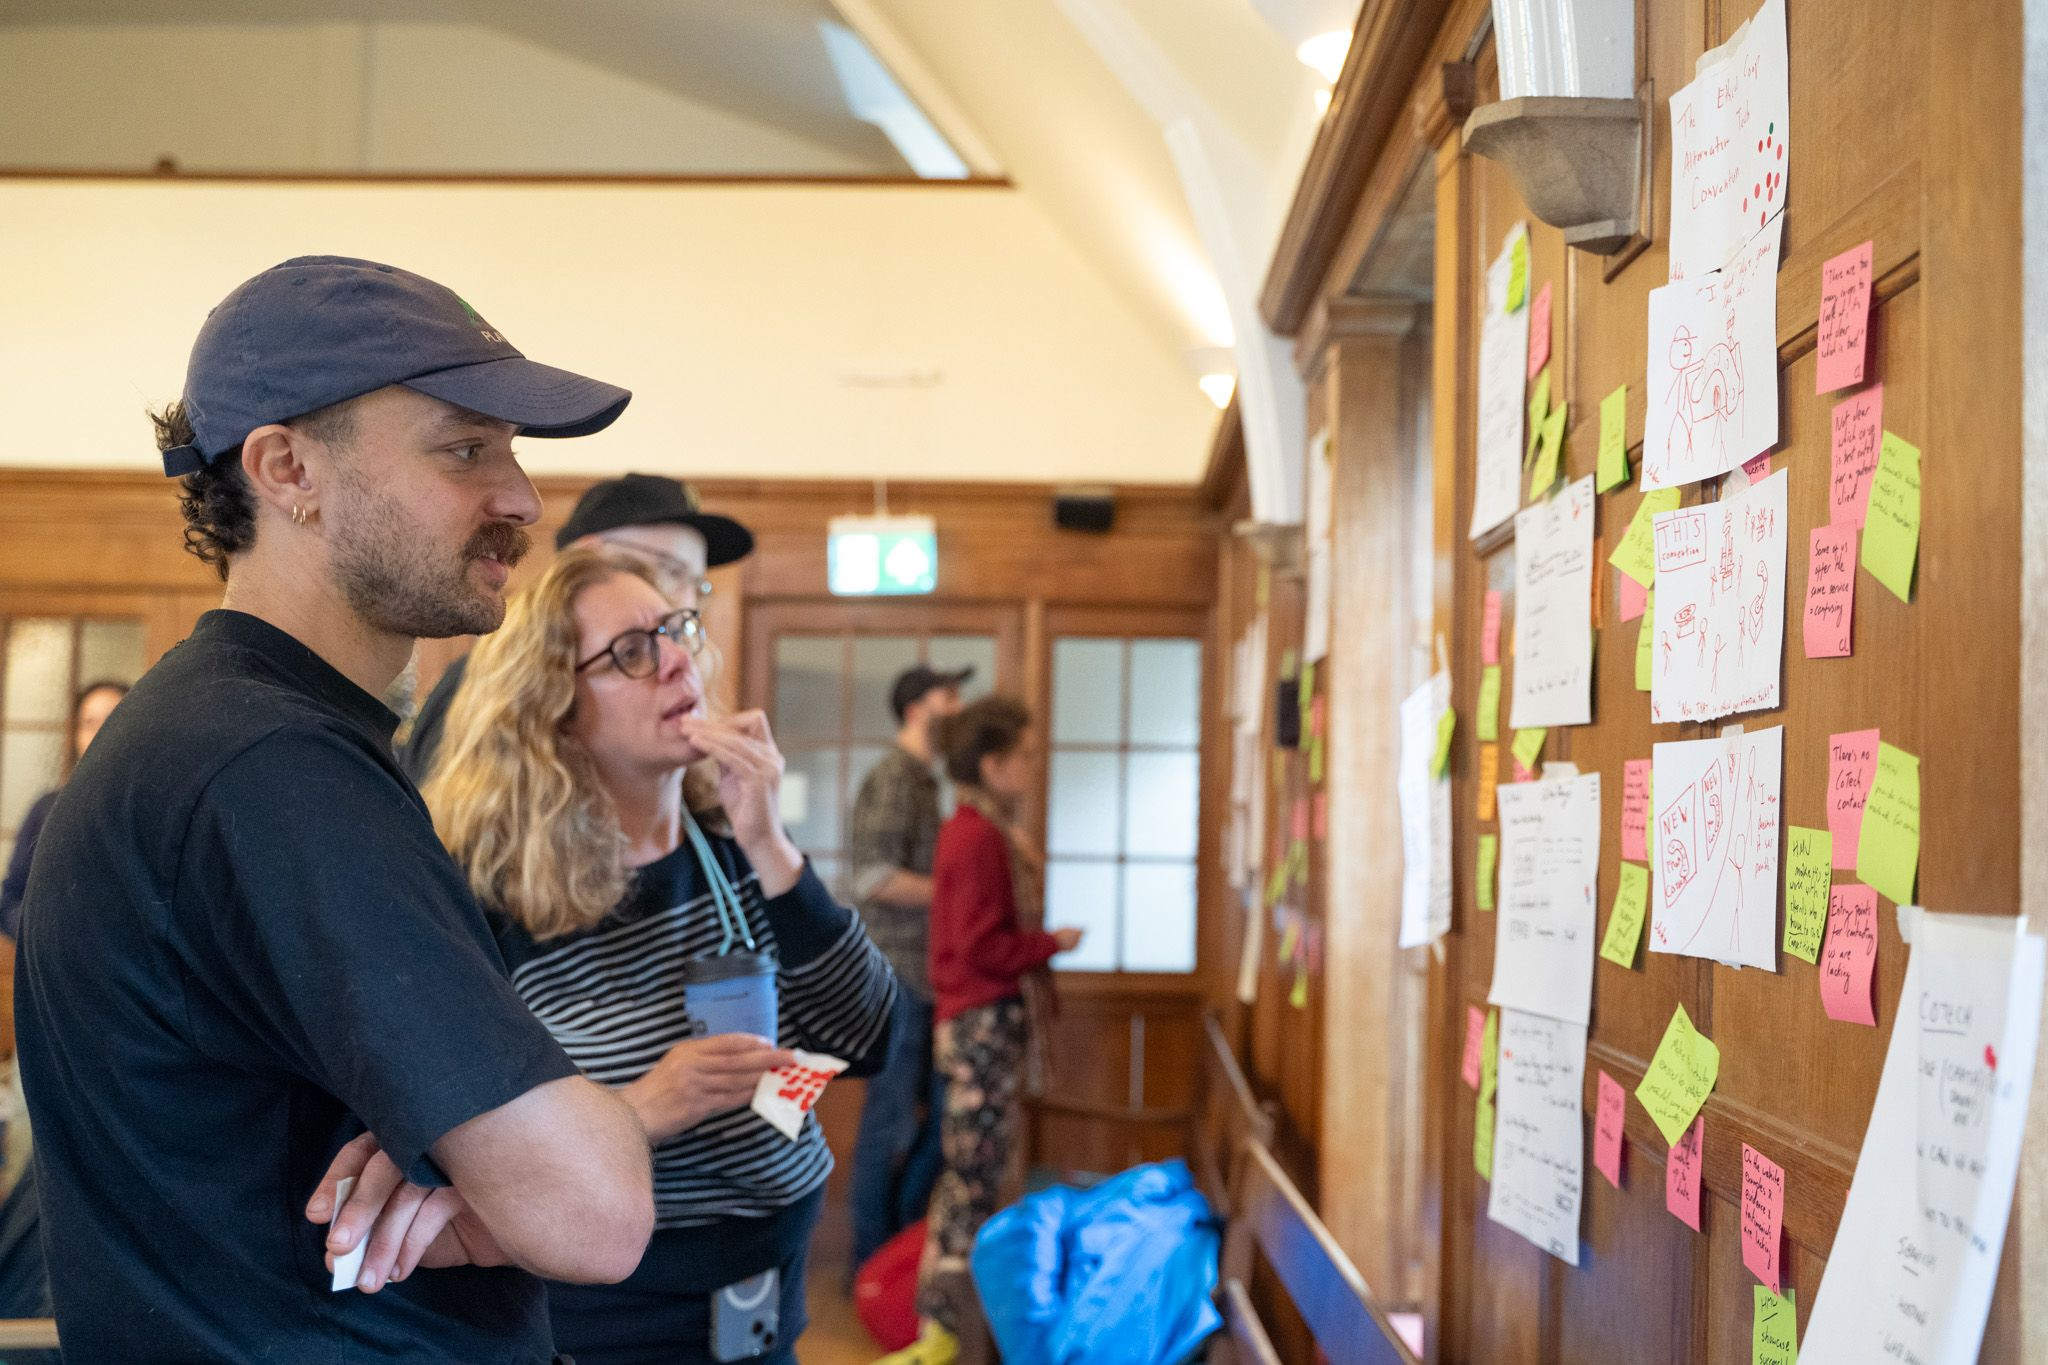
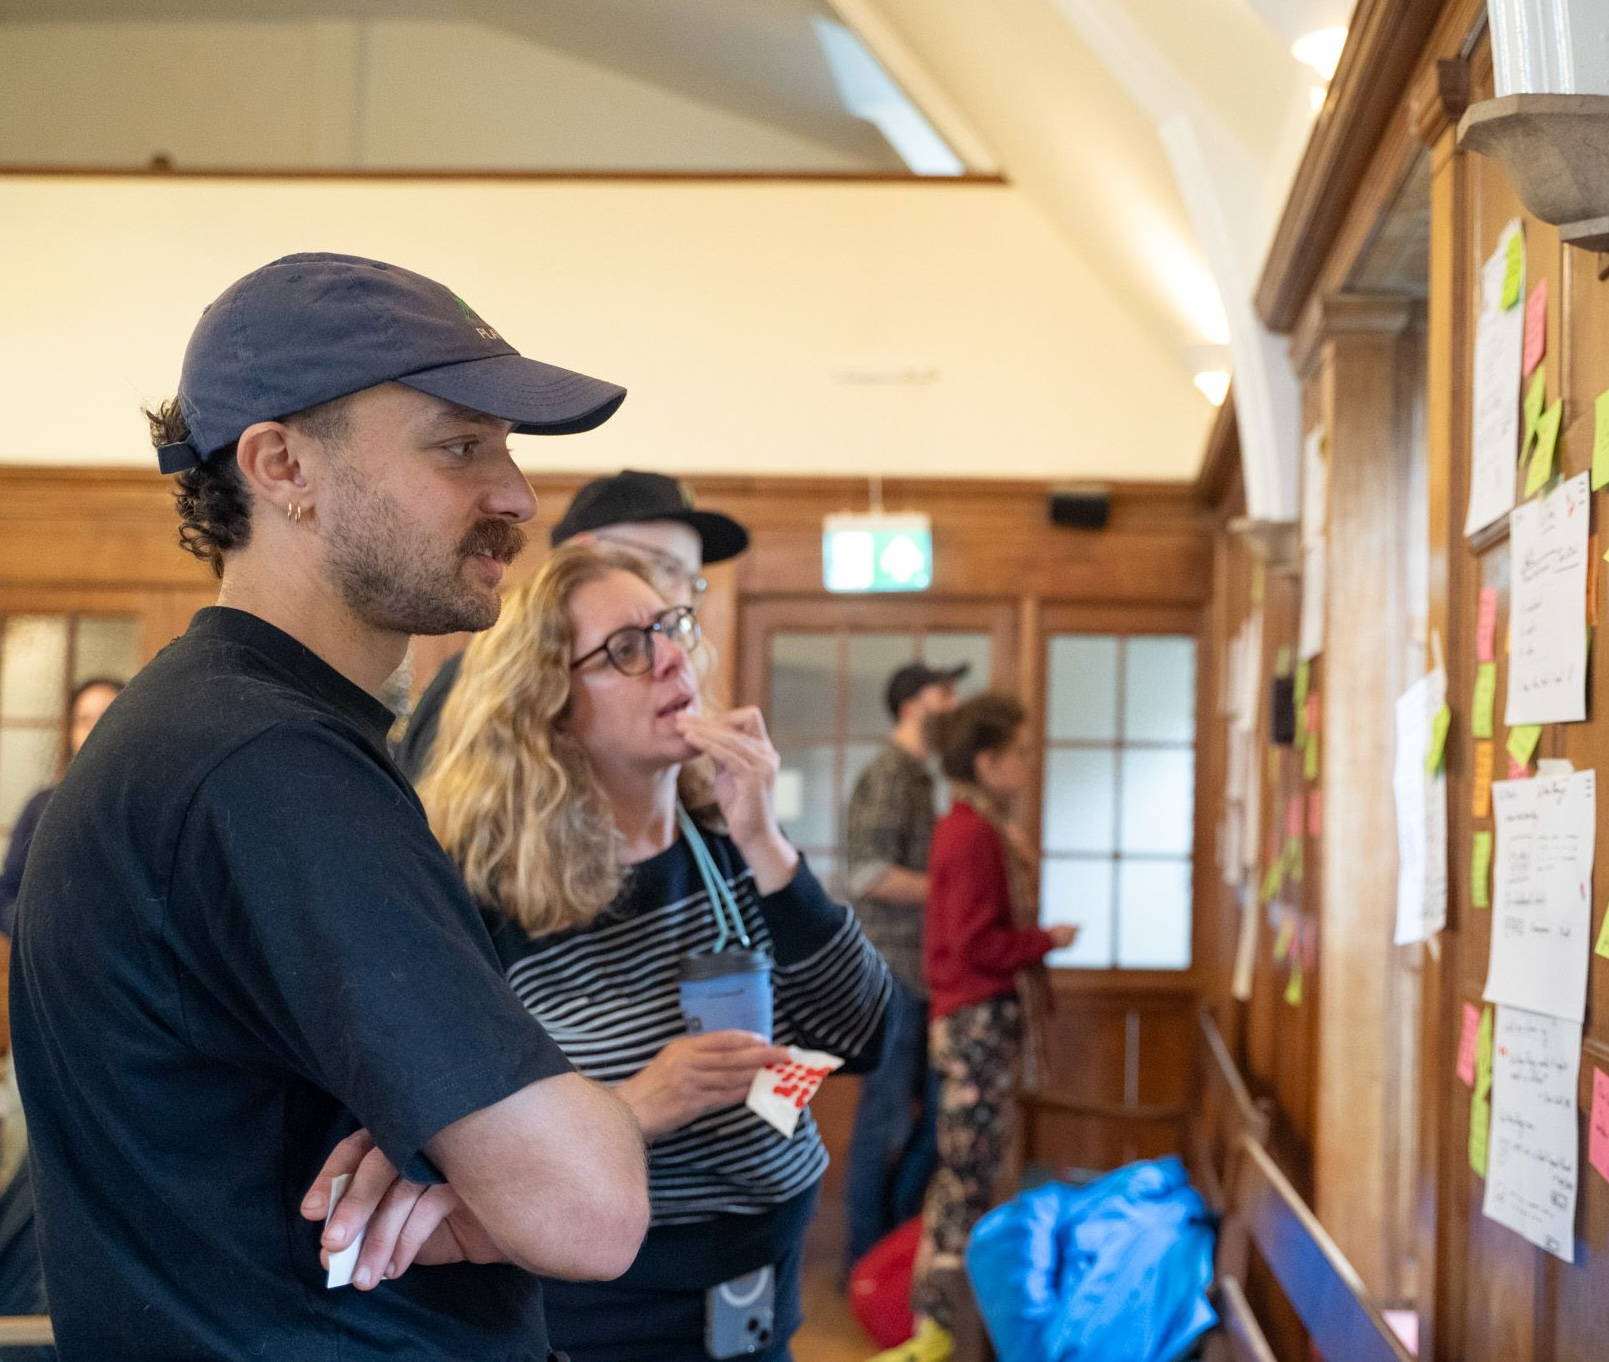
Various tweaks to the new design based on feedback
Natasha and I went through the design together and made a number of
small tweaks.

In particular we removed the responsive line-height in favour of a
fixed one at all screen sizes.

diff --git a/assets/css/app.css b/assets/css/app.css
@@ -54,12 +54,14 @@ section {
 p, li, a {
   font-family: "open_sansregular", "Helvetica Neue", Helvetica, Roboto, Arial, sans-serif;
   color: var(--cotech-white);
-  font-weight: 400;
+  font-weight: 300;
+  line-height: 1.4;
 }
 
 h1, h2, h3, h4, h5, h6 {
   font-family: "source_serif_regular", Palatino, Palladio, "URW Palladio L", "Book Antiqua", Baskerville, "Bookman Old Style", "Bitstream Charter", "Nimbus Roman No9 L", Garamond, "Apple Garamond", "ITC Garamond Narrow", "New Century Schoolbook", "Century Schoolbook", "Century Schoolbook L", Georgia, serif;
   color: var(--cotech-white);
+  line-height: 1.1;
   font-weight: 400;
 }
 
@@ -78,13 +80,11 @@ h3.title {
 @media (min-width: 48em) {
   h1 {
     font-size: calc(2.625rem + ((1vw - 0.48rem) * 2.8646));
-    line-height: calc(1.2 + ((1vw - 0.48) * -0.2083));
     min-height: 0vw;
   }
 
   h2 {
     font-size: calc(2rem + ((1vw - 0.48rem) * 1.7361));
-    line-height: calc(1.2 + ((1vw - 0.48) * -0.1389));
     min-height: 0vw;
   }
 
@@ -102,36 +102,30 @@ h3.title {
   p.large {
     font-size: calc(1.375rem + ((1vw - 0.48rem) * 0.6944));
     min-height: 0vw;
-    line-height: 1.4;
   }
 
   p.intro {
     font-size: calc(1.125rem + ((1vw - 0.48rem) * 0.1736));
     min-height: 0vw;
-    line-height: 1.4;
   }
 
   p, li, a {
     font-size: calc(0.875rem + ((1vw - 0.48rem) * 0.1736));
     min-height: 0vw;
-    line-height: 1.4;
   }
 }
 
 @media (min-width: 120em) {
   h1 {
     font-size: 4.6875rem;
-    line-height: 1.05;
   }
 
   h2 {
     font-size: 3.25rem;
-    line-height: 1.1;
   }
 
   h3 {
     font-size: 2.5rem;
-    line-height: 1.1;
   }
 
   h3.title {
@@ -140,17 +134,14 @@ h3.title {
 
   p.large {
     font-size: 1.875rem;
-    line-height: 1.4;
   }
 
   p.intro {
     font-size: 1.25rem;
-    line-height: 1.4;
   }
 
   p, li, a {
     font-size: 1rem;
-    line-height: 1.4;
   }
 }
 
@@ -174,6 +165,12 @@ img.rounded {
   border-radius: var(--space-sm);
 }
 
+img.cover {
+  object-fit: cover;
+  height: 100%;
+  width: 100%;
+}
+
 section, footer, header {
   padding: var(--space-md);
   max-inline-size: 1024px;
@@ -186,13 +183,19 @@ section, footer, header {
 }
 
 .box {
-  background: linear-gradient(180deg, rgba(45, 169, 215, 0.1) 0%, rgba(255, 255, 255, 0.05) 100%);
+  background: linear-gradient(180deg, rgba(45, 169, 215, 0.2) 0%, rgba(255, 255, 255, 0.05) 100%);
   border: 1px solid var(--cotech-dark-grey);
   border-radius: var(--space-sm);
-  padding: var(--space-sm);
+  padding: var(--space-md);
   display: flex;
   flex-direction: column;
   justify-content: center;
+}
+
+@media screen and (width > 480px) {
+  .box {
+    padding: var(--space-lg);
+  }
 }
 
 .stack {
@@ -235,6 +238,7 @@ section, footer, header {
   color: var(--cotech-black);
   text-decoration: none;
   font-family: "open_sansbold", "Helvetica Neue", Helvetica, Roboto, Arial, sans-serif;
+  border: 1px solid var(--cotech-white);
   border-radius: var(--space-sm);
   width: fit-content;
   display: flex;
@@ -247,13 +251,14 @@ section, footer, header {
 }
 
 .btn:hover {
+  border: 1px solid var(--cotech-white);
   background: var(--cotech-black);
   color: var(--cotech-white);
 }
 
 .grid {
   display: grid;
-  grid-gap: var(--space-sm);
+  grid-gap: var(--space-md);
   grid-template-columns: 1fr;
   align-items: stretch;
 }
@@ -274,6 +279,10 @@ section, footer, header {
 @media (min-width: 420px) {
   .grid {
     grid-template-columns: 1fr 1fr;
+  }
+
+  .grid-three {
+    grid-template-columns: 1fr 1fr 1fr;
   }
 
   .grid-dense {

diff --git a/join.html b/join.html
@@ -27,7 +27,7 @@ layout: default
   </div>
 
   <div>
-    <img class="rounded" src="assets/img/workers-coop-logo.png" alt="" />
+    <img class="rounded" src="assets/img/member-workers-coop.png" alt="" />
   </div>
 </section>
 
@@ -67,5 +67,19 @@ layout: default
         <li>Offer services you don’t have in-house</li>
       </ul>
     </div>
+  </div>
+</section>
+
+<section class="grid grid-uneven">
+  <div class="stack">
+    <h2>For collaborators</h2>
+
+    <p>If you’re not yet a tech coop (or not yet ready to join our membership) but interested to see what we’re about, join our online discourse forum. Participate in our discussions or start your own thread. You’ll also be able to join our monthly online call from there.</p>
+
+    <a class="btn" href="https://community.coops.tech/">Join our discourse forum</a>
+  </div>
+
+  <div>
+    <img class="rounded" src="assets/img/join-us.jpg" alt="" />
   </div>
 </section>

diff --git a/index.html b/index.html
@@ -10,10 +10,10 @@ layout: default
     <p class="large">CoTech is a UK-wide network of creative technology companies
       fully owned and controlled by the people who do the work.</p>
 
-    <img class="rounded" src="assets/img/richard.jpg" alt="" />
-
-    <p>We design, build, and support digital and creative products for
+    <p class="intro">We design, build, and support digital and creative products for
       organisations that want values-aligned tech.</p>
+
+    <img class="rounded" src="assets/img/richard.jpg" alt="" />
 
     <div class="switcher">
       <a class="btn" href="/hire">Hire our co-ops</a>

diff --git a/why_coops.html b/why_coops.html
@@ -21,7 +21,7 @@ layout: default
   </div>
 </section>
 
-<section class="w-two-thirds">
+<section>
   <div class="box stack">
     <p class="large">Cooperatives around the world are values-based
     organisations, committed to the seven cooperative principles.</p>
@@ -36,7 +36,7 @@ layout: default
 <section class="stack">
   <h2>Advantages of working with our co-ops</h2>
 
-  <div class="grid grid-dense">
+  <div class="grid grid-three">
     <div class="box stack">
       <h3 class="title">Delivery over dividends</h3>
       <p>Decisions are made to deliver good projects, not to maximise

diff --git a/hire.html b/hire.html
@@ -9,7 +9,7 @@ layout: default
 
     <p class="large">CoTech gives you access to multiple specialist co-ops through a single network. Give us your brief or tell us your challenge and we’ll connect you with the right coops for the job..</p>
 
-    <a class="btn" href="mailto:contact@cotech.coop">email: contact@cotech.coop</a>
+    <a class="btn" href="mailto:contact@cotech.coop">contact@cotech.coop</a>
   </div>
 
   <div>

diff --git a/_includes/footer.html b/_includes/footer.html
@@ -1,7 +1,5 @@
 <footer>
   <section class="stack">
-    <h3>We're building a co-operative digital economy</h3>
-
     <div class="stack container reverse">
       <a href="https://workers.coop">
         <img src="/assets/img/a-member-of-workers-coop.png" />

diff --git a/about.html b/about.html
@@ -15,7 +15,7 @@ layout: default
   </div>
 
   <div>
-    <img class="rounded" src="assets/img/stickies.jpg" alt="" />
+    <img class="rounded cover" src="assets/img/stickies.jpg" alt="" />
   </div>
 </section>
 
